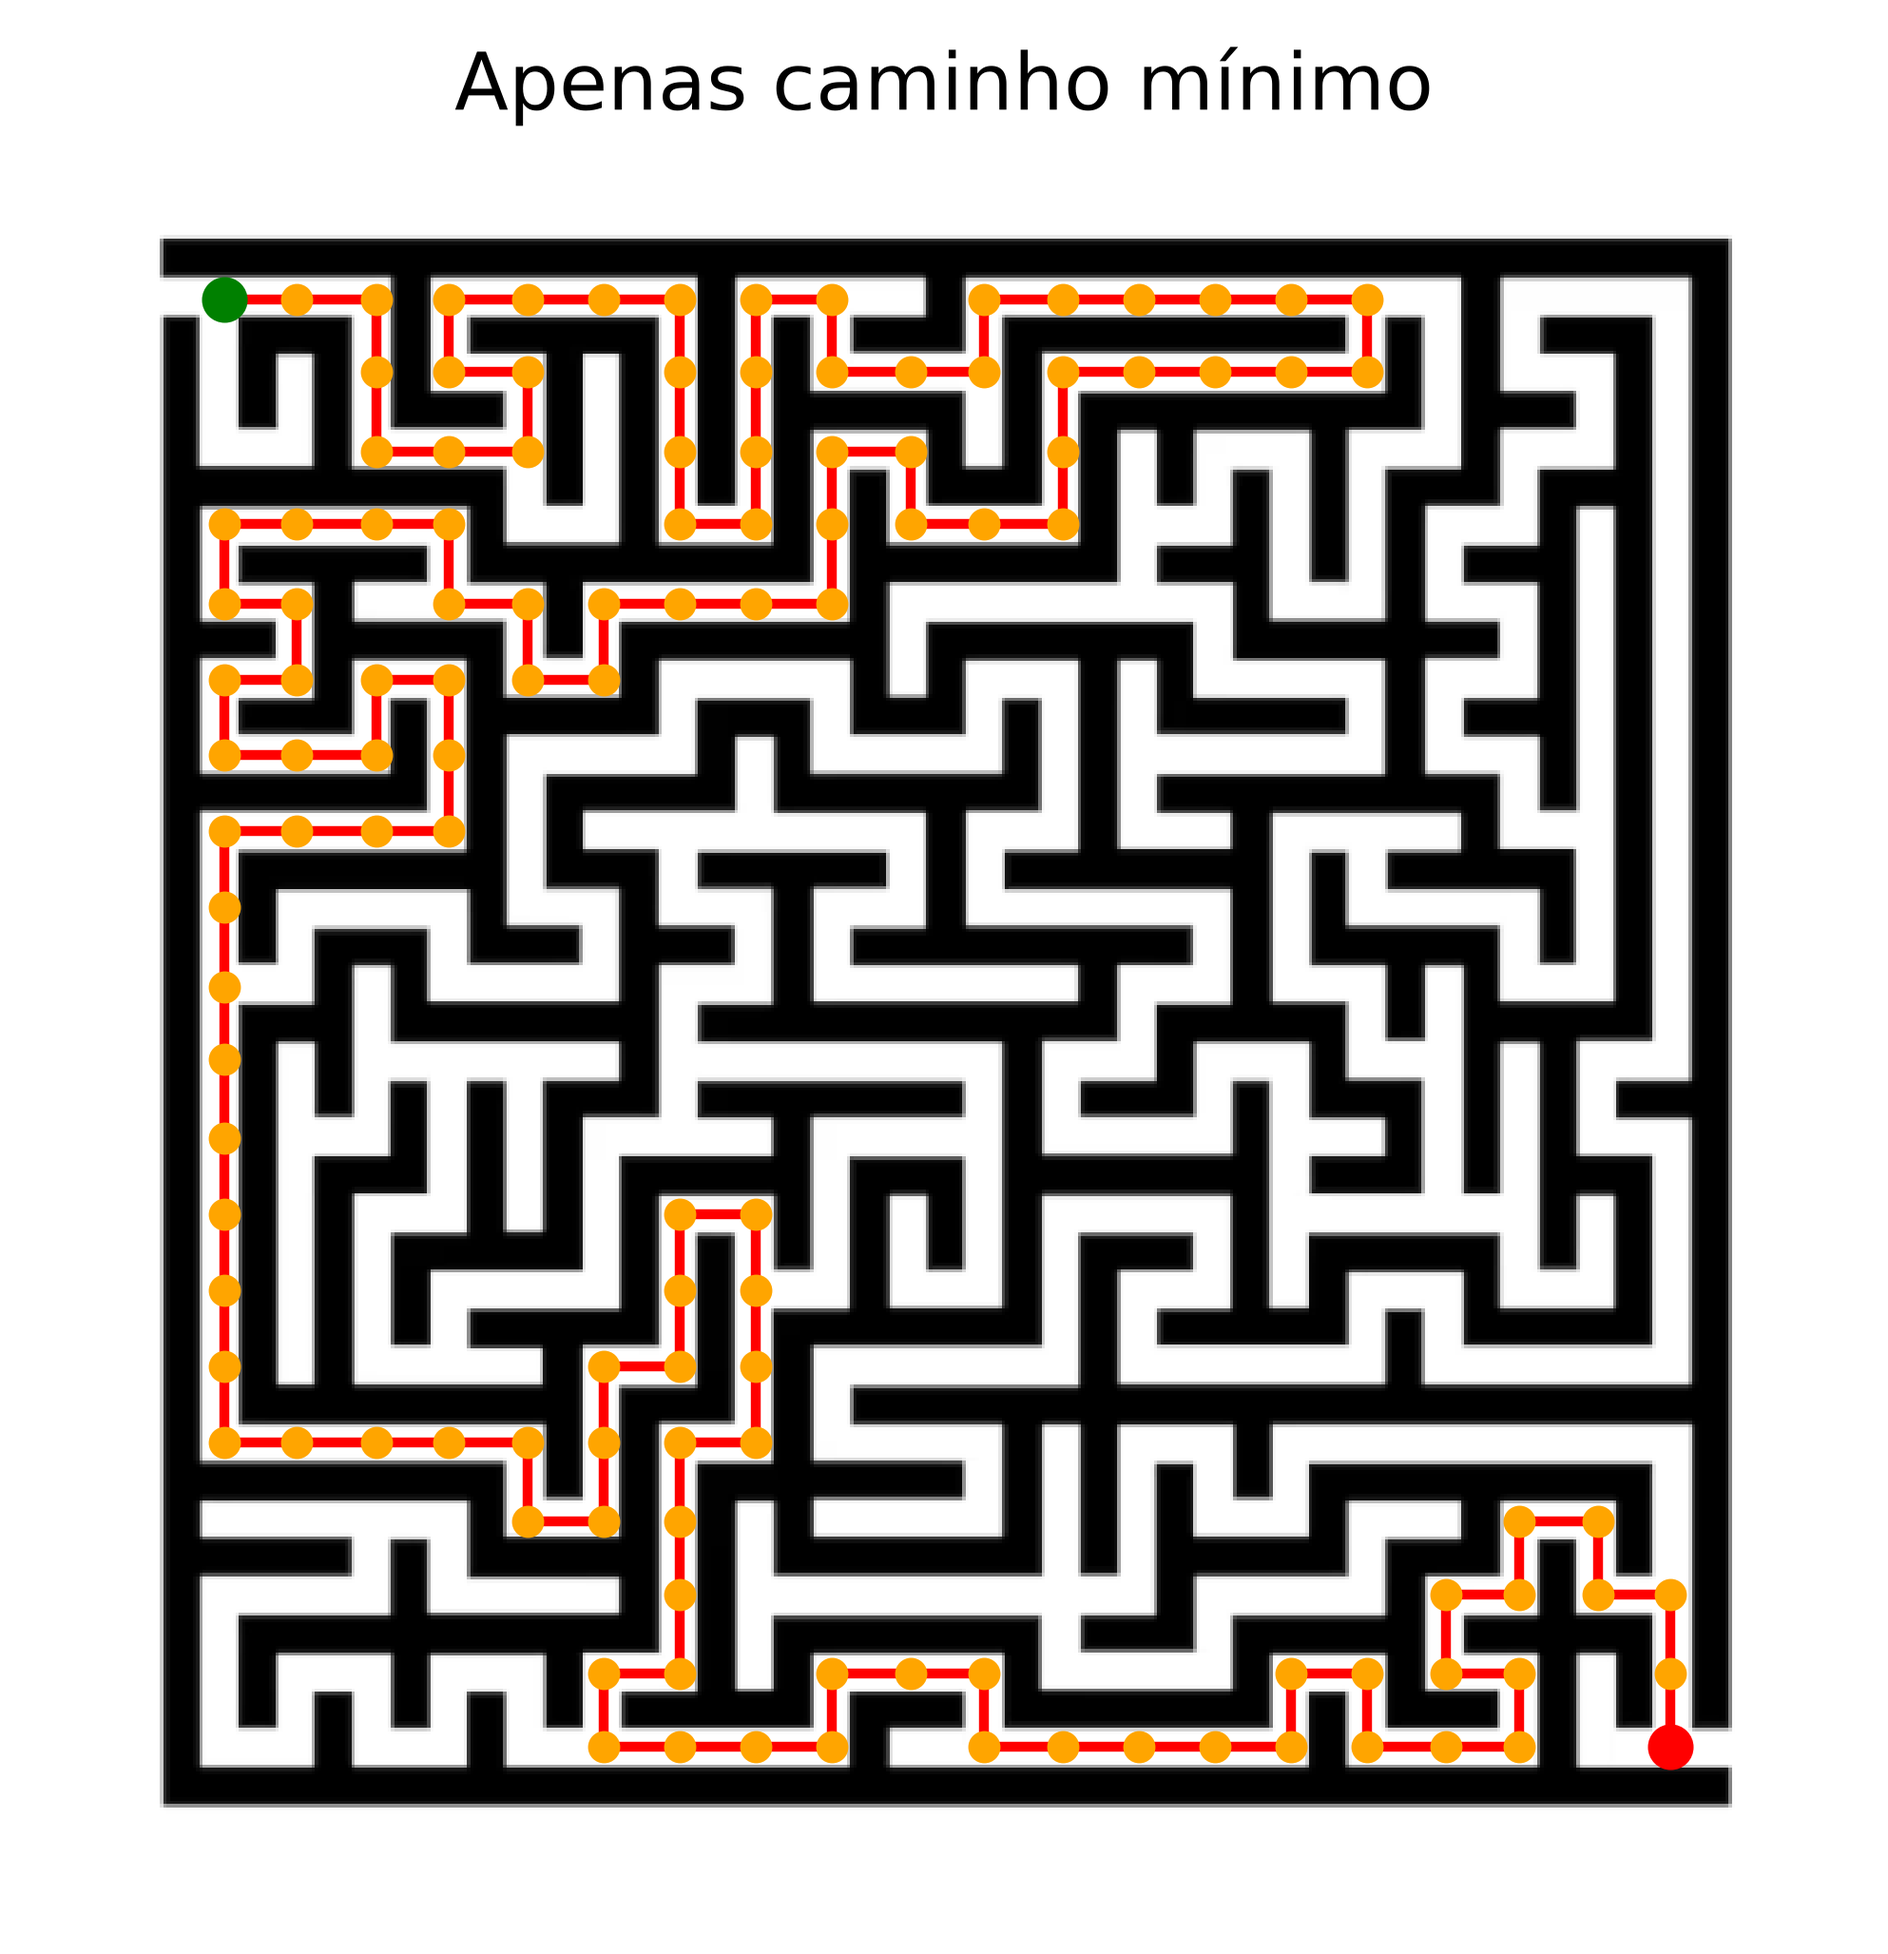
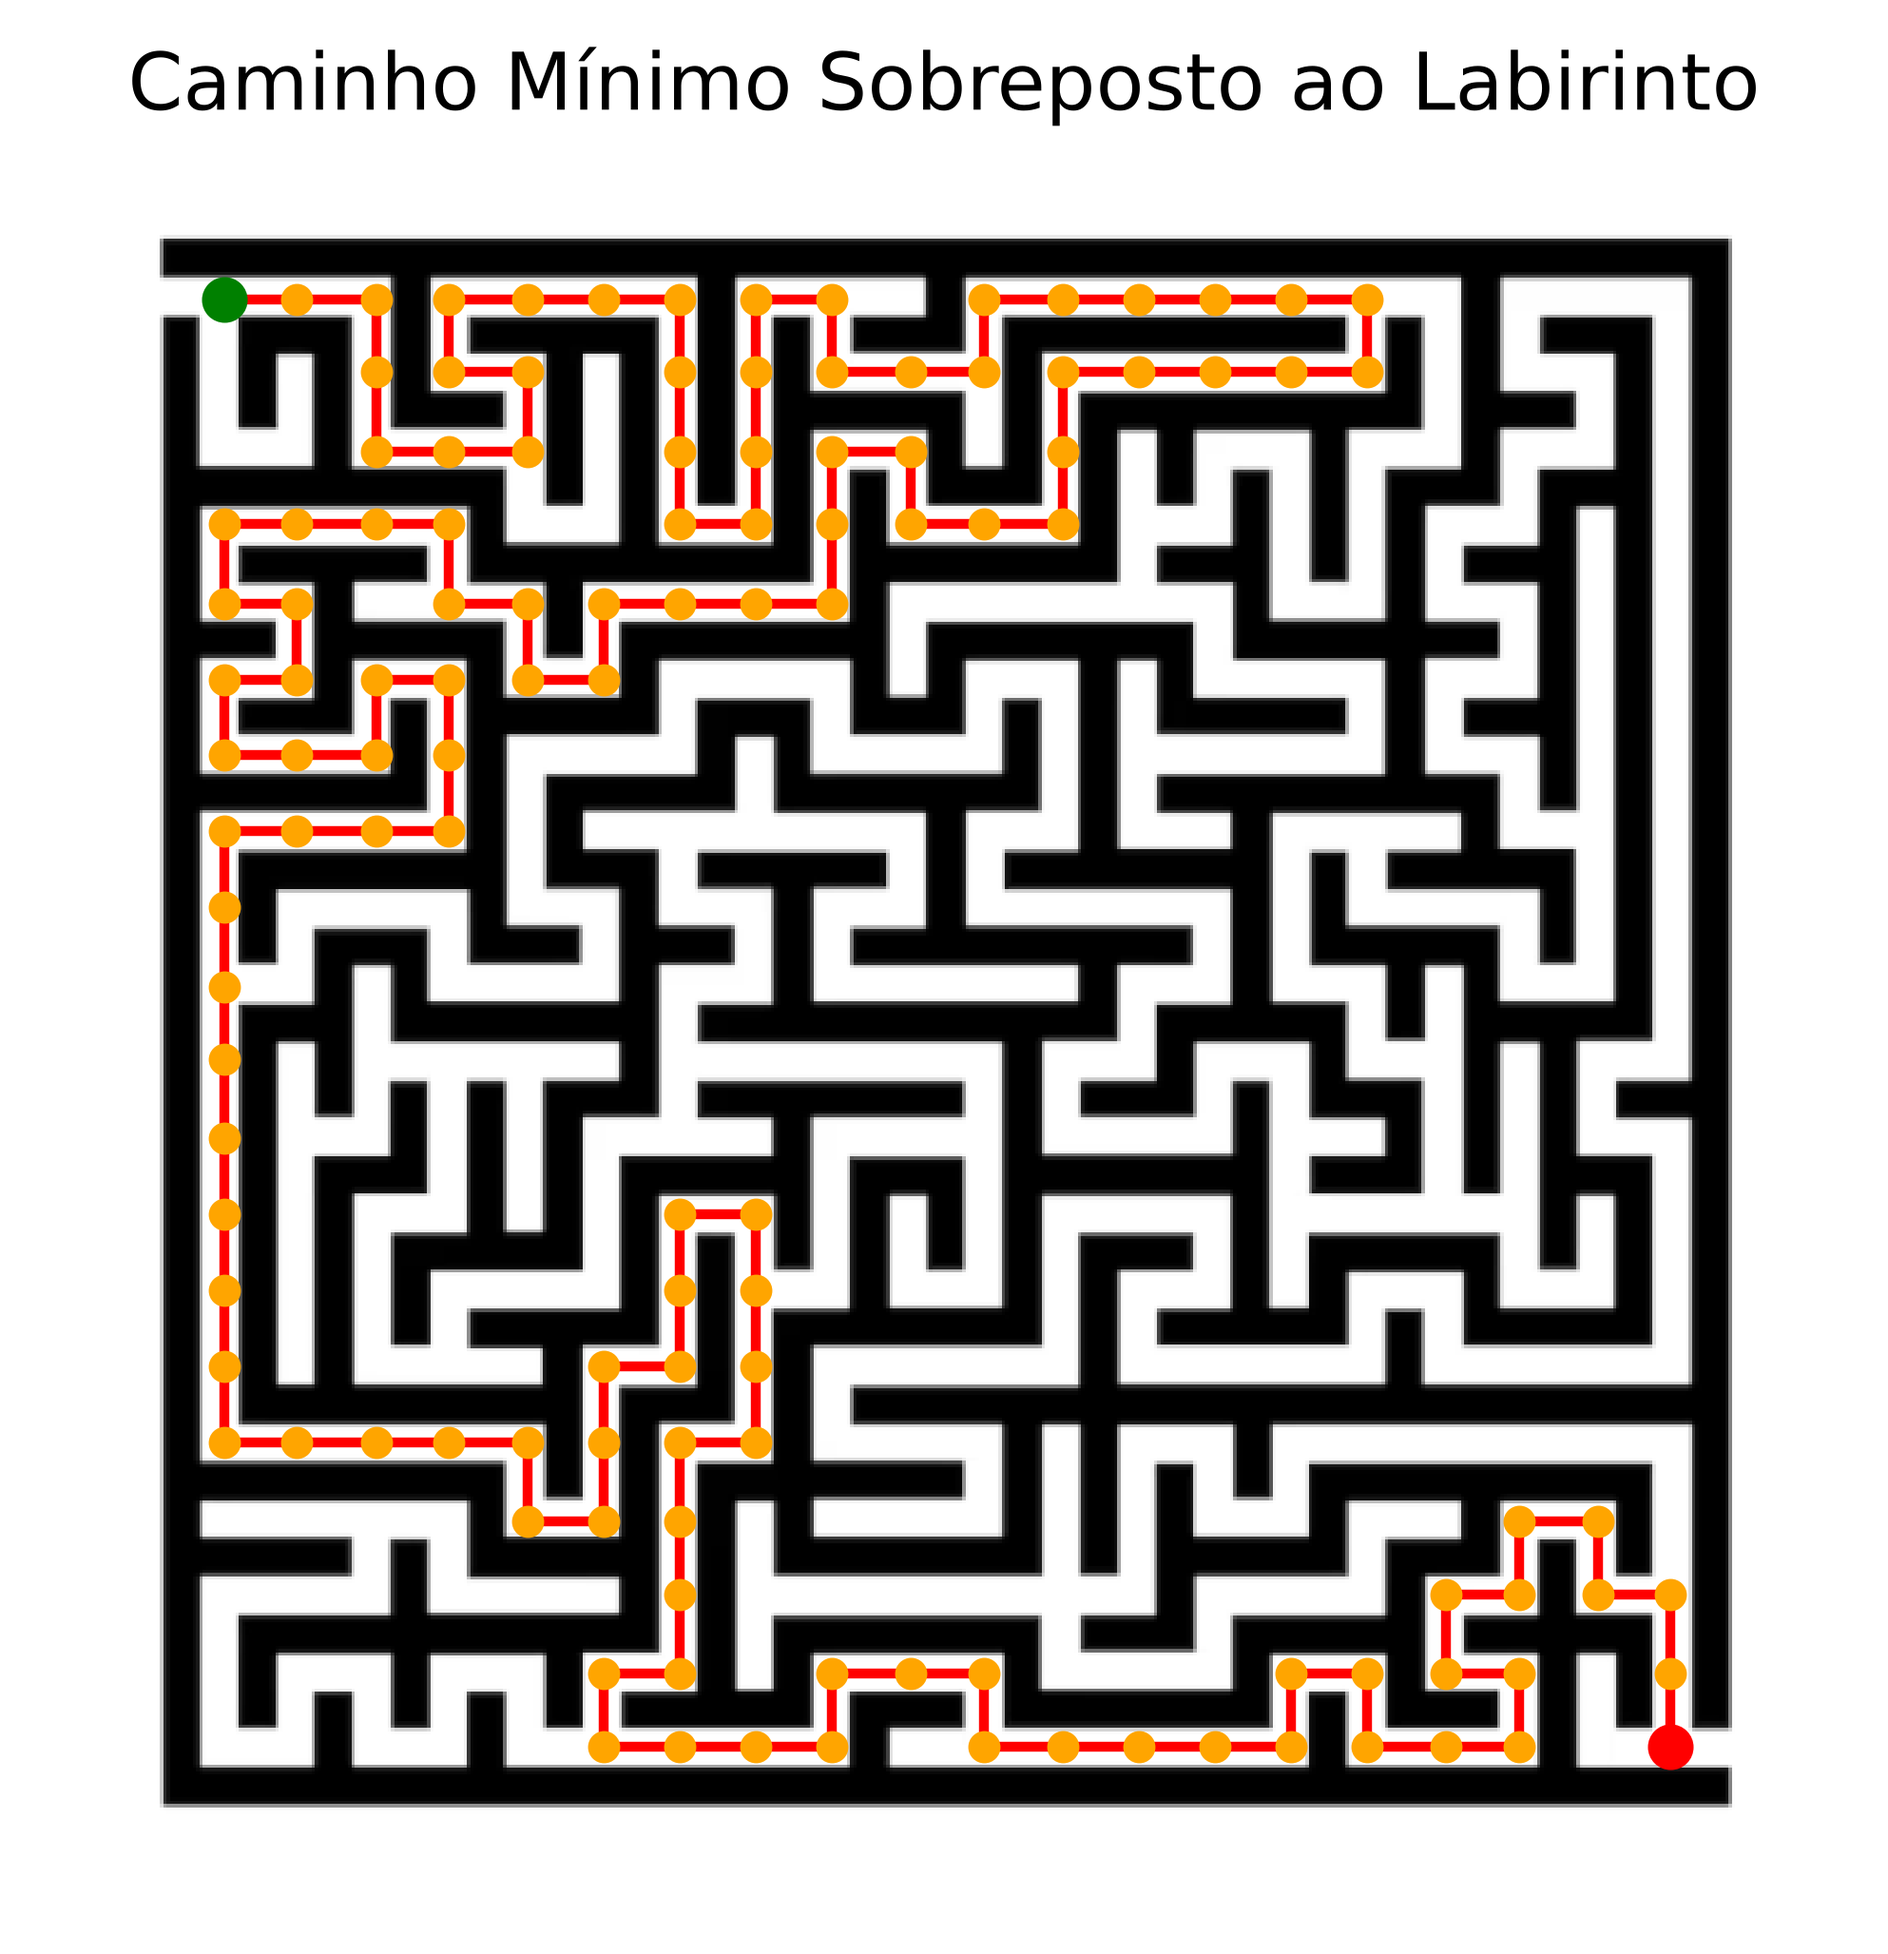
Adiciona main.py

Changed region(s): [[0.0624, 0.0311, 0.9366, 0.0623]]

diff --git a/shortest_path/parte_7.py b/shortest_path/parte_7.py
@@ -23,7 +23,7 @@ if __name__ == '__main__':
     plt.figure()
     plt.axis('off')
     plt.imshow(original)
-    plt.title('Apenas caminho mínimo')
+    plt.title('Caminho Mínimo Sobreposto ao Labirinto')
 
     # plotando as arestas do grafo
     for u in caminho:
@@ -50,7 +50,7 @@ if __name__ == '__main__':
     plt.figure()
     plt.axis('off')
     plt.imshow(original)
-    plt.title('Grafo com caminho mínimo')
+    plt.title('Grafo Completo Sobreposto ao Labirinto')
 
     # plotando as arestas do grafo
     for u in celulas:

diff --git a/shortest_path/main.py b/shortest_path/main.py
@@ -1,0 +1,8 @@
+import runpy
+from pathlib import Path
+
+pasta = Path(__file__).resolve().parent
+
+for nome in ["parte_1.py", "parte_2.py", "parte_3.py", "parte_6.py", "parte_7.py"]:
+    print(f"\n--- {nome}---")
+    runpy.run_path(str(pasta / nome), run_name="__main__")
